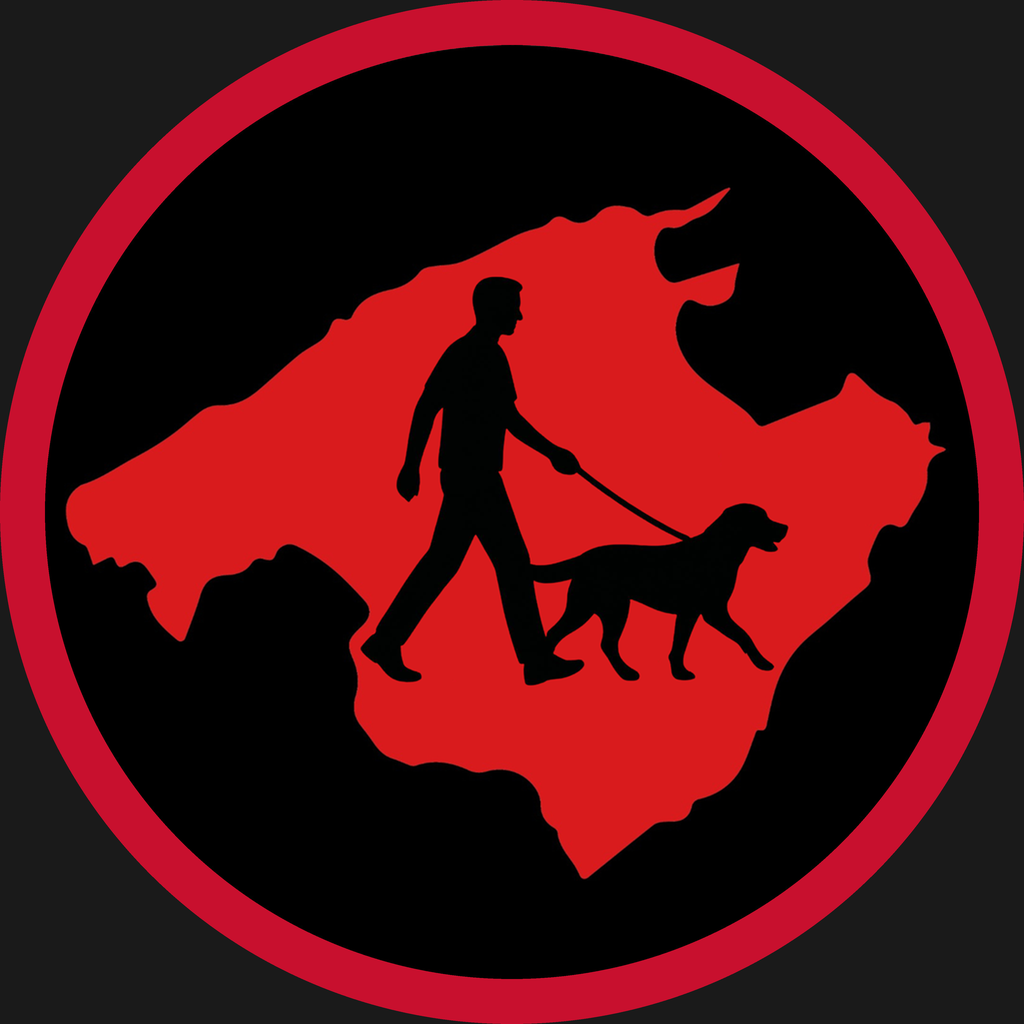
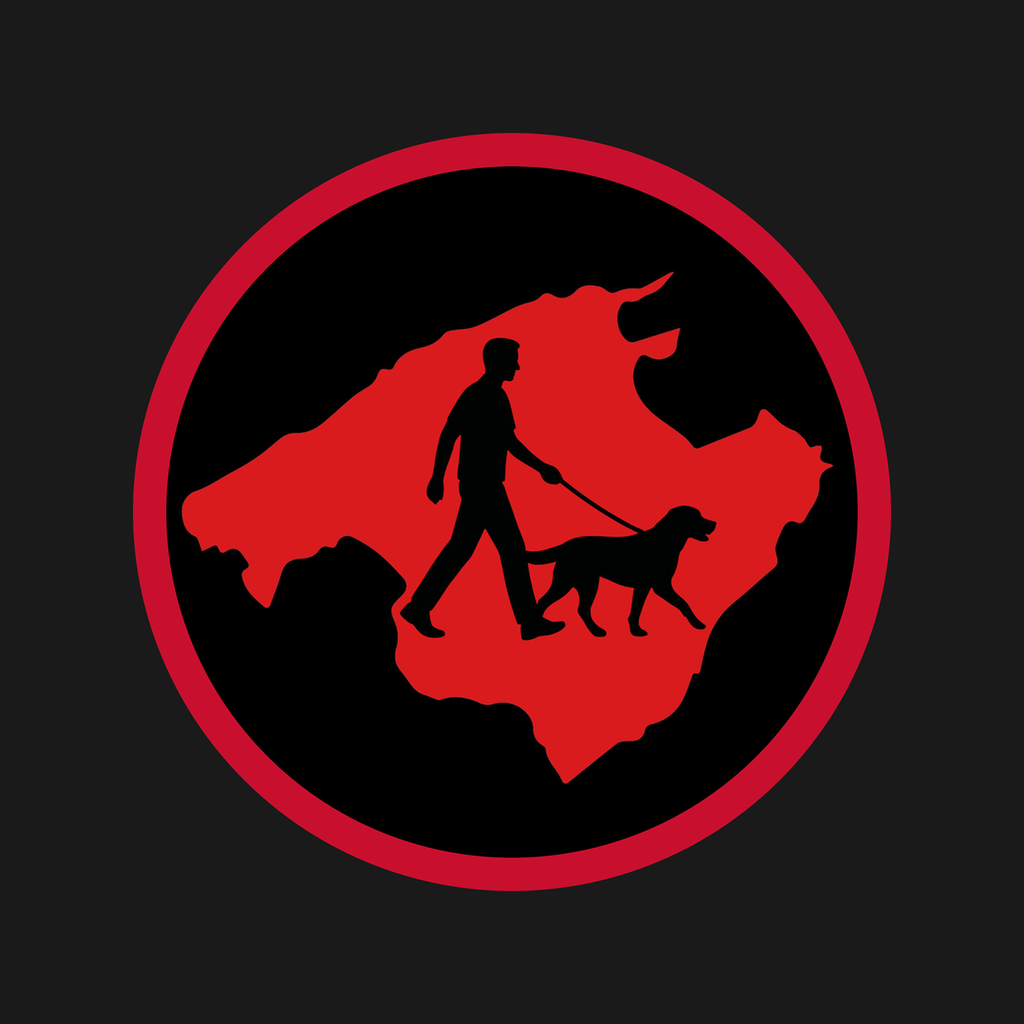
Iconos Android v2 — más margen para recorte squircle

diff --git a/service-worker.js b/service-worker.js
@@ -1,6 +1,6 @@
 // Service Worker — Paseos Seguros (iniciativa de Perros de la Isla)
 // Estrategia: network-first para archivos propios (HTML/CSS/JS), cache-first para externos
-const CACHE_VERSION = 'pdi-v50';
+const CACHE_VERSION = 'pdi-v51';
 const CACHE_NAME = CACHE_VERSION;
 const OWN_ASSETS = [
   './',

diff --git a/index.html b/index.html
@@ -1,7 +1,7 @@
 <!DOCTYPE html>
 <html lang="es">
 <head>
-<link rel="manifest" href="manifest.json?v=8">
+<link rel="manifest" href="manifest.json?v=9">
 <meta name="theme-color" content="#C8231A">
 <meta charset="UTF-8">
 <meta name="viewport" content="width=device-width, initial-scale=1.0">
